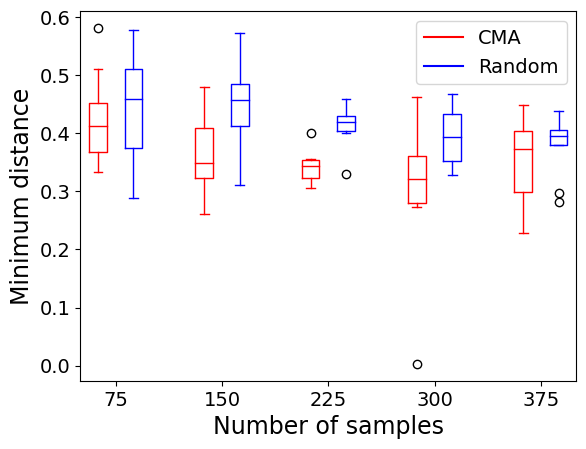
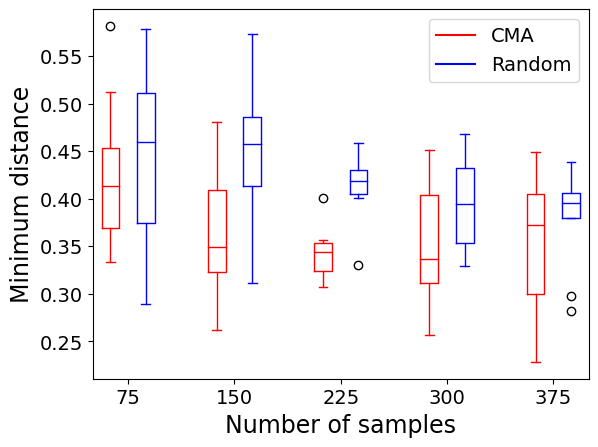
update lunar lqr

diff --git a/scripts/run_lunar_lander_lqr.py b/scripts/run_lunar_lander_lqr.py
@@ -28,7 +28,7 @@ phi = SafetyProp()
 prob = Problem(env, agent, phi, L2Norm(env))
 sys_eval = CMASystemEvaluator(
     0.4, phi, 
-    {'timeout': 1, 'restarts': 1, 'episode_len': 300, 'evals': 40}
+    {'timeout': 1, 'restarts': 0, 'episode_len': 300, 'evals': 40}
 )
 
 # Use CMA
@@ -77,7 +77,7 @@ plt.savefig('gifs/lunar-lander-lqr/fig-boxplot.png', bbox_inches='tight')
 
 sys_eval3 = ExpectationSysEvaluator(
     phi,
-    {'timeout': 1, 'restarts': 1, 'episode_len': 300, 'evals': 40}
+    {'timeout': 1, 'restarts': 0, 'episode_len': 300, 'evals': 40}
 )
 
 # from datetime import datetime
